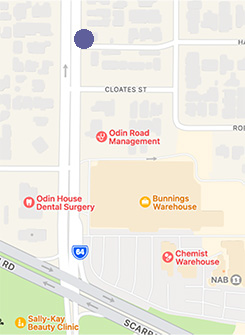
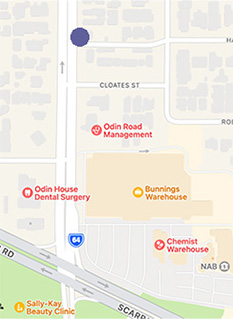
up

diff --git a/scss/contact.scss b/scss/contact.scss
@@ -18,7 +18,7 @@
     background-repeat: no-repeat;
     background-position: center right;
     position: relative;
-    max-height: 335px;
+    max-height: 319px;
     @include setbox(null, null, 31%, 0 0 2rem 0);
     @include medium_and_up {
         background-image: url(../images/contact/map.jpg);

diff --git a/css/contact.css b/css/contact.css
@@ -114,7 +114,7 @@ footer a:hover, footer a:focus {
   background-repeat: no-repeat;
   background-position: center right;
   position: relative;
-  max-height: 335px;
+  max-height: 319px;
   padding: 31%;
   margin: 0 0 2rem 0;
 }
